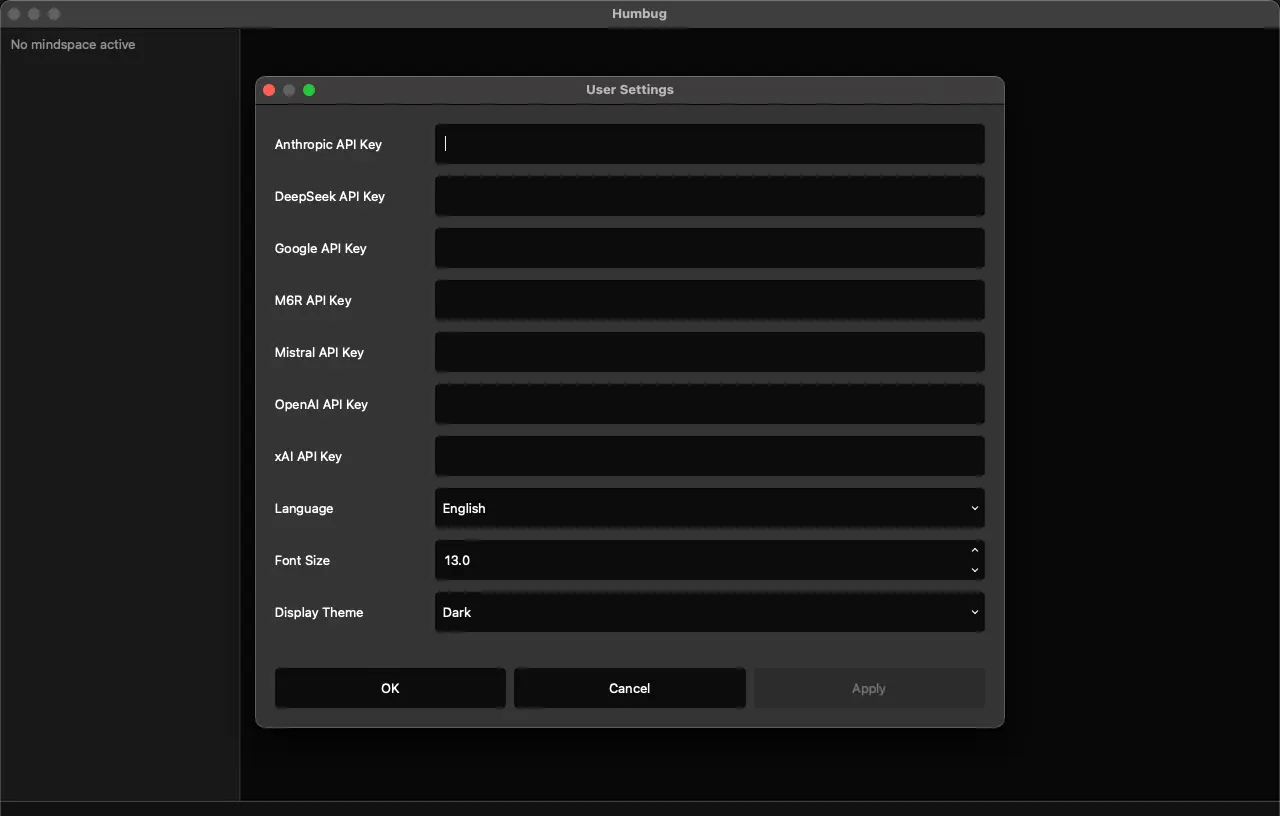
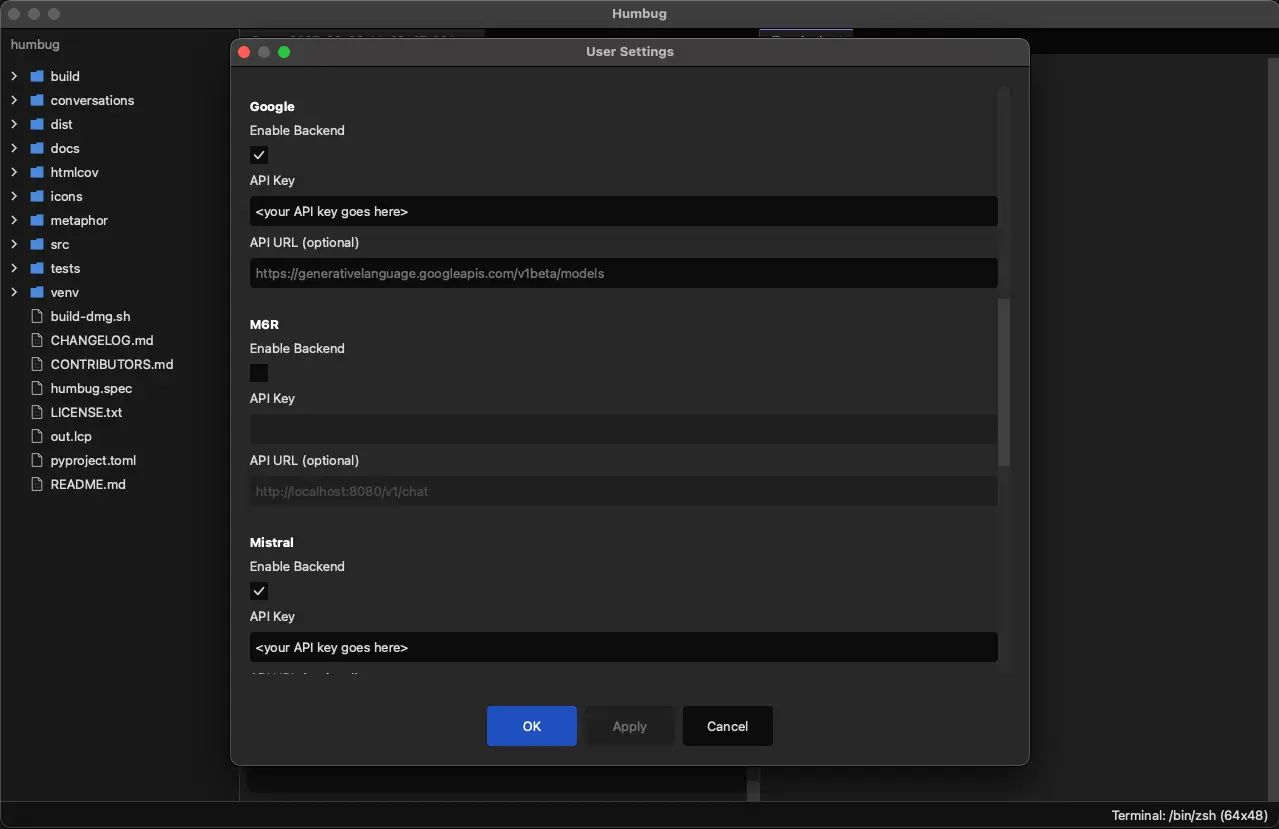
Update to match v0.12 of Humbug

diff --git a/README.md b/README.md
@@ -1,6 +1,6 @@
 # Getting started with Metaphor
 
-Version 0.2 - 2025-05-01
+Version 0.3 - 2025-05-13
 
 ## Introduction
 
@@ -139,14 +139,18 @@ Once it's running for the first time you'll see something a little like this:
 
 ![start screen](img/start-screen.webp)
 
-If you go to the "Humbug" menu and select "Preferences" you will see a user settings page:
+If you go to the "Humbug" menu and select "Preferences" you will see a user settings page.  There are quite a lot of
+settings so this page scrolls up and down:
 
 ![API key settings](img/api-keys.webp)
 
-Copy your Google and/or Mistral (or any other) API keys into the appropriate lines and then click OK.
+Find the Google and/or Mistral (or any other) sections.
+For each one, enable the backend by selecting the checkbox and then copy your matching API keys into the appropriate lines.
+You don't need to put anything in the optional API URL setting as those are advanced options for using private LLMs.
+Once you're done, click OK.
 
-You'll want to check the API keys are working properly.  The easiest way to do this is to start a conversation, but
-Humbug needs you to do one thing first.
+You'll want to check the API keys are working properly.
+The easiest way to do this is to start a conversation, but Humbug needs you to do one thing first.
 
 ### Mindspaces
 
